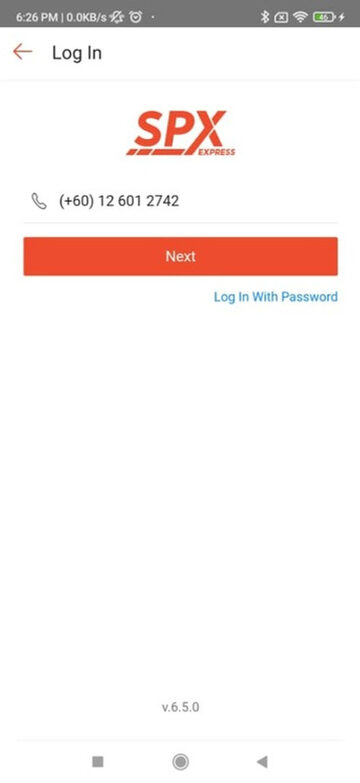
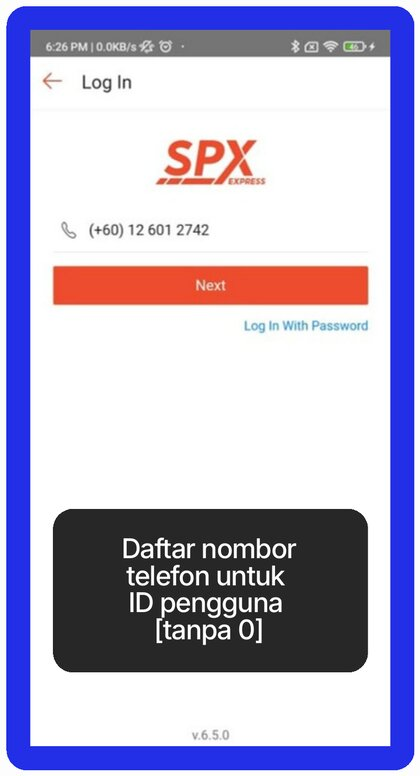
Add files via upload

diff --git a/index.html b/index.html
@@ -260,14 +260,15 @@
     box-shadow: var(--shadow);
   }
   .qa-img-cap { font-size: 12px; color: var(--text-muted); margin-top: 6px; }
+  .qa-img-wide { max-width: 420px; }
   .qa-img-grid {
     display: grid;
     grid-template-columns: repeat(auto-fill, minmax(108px, 1fr));
     gap: 10px;
     margin: 12px 0 4px;
   }
-  .qa-img-grid .qa-img-wrap { margin: 0; }
-  .qa-img-grid .qa-img { border-radius: 10px; }
+  .qa-img-grid .qa-img-wrap { margin: 0; position: relative; }
+  .qa-img-grid .qa-img { border-radius: 10px; display: block; }
   .qa-img-grid .qa-img-cap { font-size: 11px; }
   .qa-img-step {
     display: inline-block;
@@ -281,6 +282,14 @@
     line-height: 16px;
     text-align: center;
     margin-right: 4px;
+    flex: none;
+  }
+  .qa-img-grid .qa-img-badge {
+    position: absolute;
+    top: 6px;
+    left: 6px;
+    box-shadow: 0 1px 4px rgba(0,0,0,.4);
+    margin-right: 0;
   }
   .no-results { text-align: center; padding: 60px 20px; color: var(--text-muted); }
   .no-results[hidden] { display: none; }
@@ -347,17 +356,17 @@
                       <div class="qa-img-grid">
                         <div class="qa-img-wrap"><img class="qa-img" src="images/login-1.jpg" alt="Imbas QR code untuk muat turun aplikasi SPX" loading="lazy"><p class="qa-img-cap"><span class="qa-img-step">1</span>Imbas QR / muat turun app</p></div>
                         <div class="qa-img-wrap"><img class="qa-img" src="images/login-2.jpg" alt="Buka aplikasi SPX dan pilih Log In" loading="lazy"><p class="qa-img-cap"><span class="qa-img-step">2</span>Buka app & pilih Log In</p></div>
-                        <div class="qa-img-wrap"><img class="qa-img" src="images/login-3.jpg" alt="Masukkan nombor telefon dan klik Next" loading="lazy"><p class="qa-img-cap"><span class="qa-img-step">3</span>Masukkan nombor telefon</p></div>
-                        <div class="qa-img-wrap"><img class="qa-img" src="images/login-4.jpg" alt="Masukkan kod pengesahan captcha" loading="lazy"><p class="qa-img-cap"><span class="qa-img-step">4</span>Masukkan kod pengesahan (captcha)</p></div>
-                        <div class="qa-img-wrap"><img class="qa-img" src="images/login-5.jpg" alt="Sahkan kaedah OTP melalui WhatsApp" loading="lazy"><p class="qa-img-cap"><span class="qa-img-step">5</span>Sahkan OTP melalui WhatsApp</p></div>
-                        <div class="qa-img-wrap"><img class="qa-img" src="images/login-6.jpg" alt="Kod OTP diterima melalui WhatsApp" loading="lazy"><p class="qa-img-cap"><span class="qa-img-step">6</span>Terima kod OTP di WhatsApp</p></div>
-                        <div class="qa-img-wrap"><img class="qa-img" src="images/login-7.jpg" alt="Masukkan kod OTP 6 digit" loading="lazy"><p class="qa-img-cap"><span class="qa-img-step">7</span>Masukkan kod OTP 6 digit</p></div>
-                        <div class="qa-img-wrap"><img class="qa-img" src="images/login-8.jpg" alt="Tetapkan kata laluan baharu" loading="lazy"><p class="qa-img-cap"><span class="qa-img-step">8</span>Tetapkan kata laluan baharu</p></div>
-                        <div class="qa-img-wrap"><img class="qa-img" src="images/login-9.jpg" alt="Kata laluan berjaya ditetapkan" loading="lazy"><p class="qa-img-cap"><span class="qa-img-step">9</span>Kata laluan berjaya ditetapkan</p></div>
+                        <div class="qa-img-wrap"><span class="qa-img-step qa-img-badge">3</span><img class="qa-img" src="images/login-3.jpg" alt="Daftar nombor telefon untuk ID pengguna (tanpa 0)" loading="lazy"></div>
+                        <div class="qa-img-wrap"><span class="qa-img-step qa-img-badge">4</span><img class="qa-img" src="images/login-4.jpg" alt="Sila masukkan kod pengesahan (captcha) yang dipaparkan" loading="lazy"></div>
+                        <div class="qa-img-wrap"><span class="qa-img-step qa-img-badge">5</span><img class="qa-img" src="images/login-5.jpg" alt="Pastikan WhatsApp dipilih sebagai medium untuk menerima OTP" loading="lazy"></div>
+                        <div class="qa-img-wrap"><span class="qa-img-step qa-img-badge">6</span><img class="qa-img" src="images/login-6.jpg" alt="Masukkan OTP yang diterima melalui WhatsApp dan klik OK" loading="lazy"></div>
+                        <div class="qa-img-wrap"><span class="qa-img-step qa-img-badge">7</span><img class="qa-img" src="images/login-7.jpg" alt="Sebaik sahaja OTP disahkan, tetapkan kata laluan baharu" loading="lazy"></div>
+                        <div class="qa-img-wrap"><span class="qa-img-step qa-img-badge">8</span><img class="qa-img" src="images/login-8.jpg" alt="Tetapkan kata laluan mengikut kriteria yang diperlukan" loading="lazy"></div>
+                        <div class="qa-img-wrap"><span class="qa-img-step qa-img-badge">9</span><img class="qa-img" src="images/login-9.jpg" alt="Sebaik sahaja kata laluan disimpan, log masuk semula" loading="lazy"></div>
                       </div>` },
         { q: `Bolehkah kurier kongsi ID atau kata laluan Driver App dengan orang lain?`, a: `<p><strong>Tidak, sama sekali dilarang.</strong> Kurier tidak dibenarkan berkongsi atau memberi akses ID mereka kepada sesiapa pun.</p>
                       <p>Sebarang perkongsian butiran log masuk boleh dikenakan tindakan tatatertib &mdash; sehingga dan termasuk <strong>penamatan perkhidmatan</strong>.</p>
-                      <div class="qa-img-wrap"><img class="qa-img" src="images/id-warning.jpg" alt="Amaran dilarang berkongsi ID atau kata laluan" loading="lazy"><p class="qa-img-cap">Dilarang berkongsi ID atau kata laluan</p></div>` },
+                      <div class="qa-img-wrap"><img class="qa-img qa-img-wide" src="images/id-warning.jpg" alt="Amaran: Dilarang berkongsi ID. Pemandu tidak dibenarkan berkongsi atau memberi akses ID mereka kepada orang lain." loading="lazy"></div>` },
         { q: `Adakah kurier FM wajib rakam waktu masuk (clock-in)?`, a: `<p>Ya. Pemandu diwajibkan untuk merakam waktu masuk (clock-in) di dalam app &mdash; sama ada di rumah atau semasa menghidupkan kenderaan &mdash; sebagai tanda pemandu melapor diri untuk bertugas pada hari tersebut.</p>
                       <p>Penyelia akan memantau kehadiran pemandu bagi setiap syif dan pasukan masing-masing.</p>
                       <div class="qa-img-wrap"><img class="qa-img" src="images/clock-in.jpg" alt="Skrin clock-in Enter/Exit dalam Driver App" loading="lazy"><p class="qa-img-cap">Skrin rakam waktu masuk (clock-in) dalam app</p></div>` }
